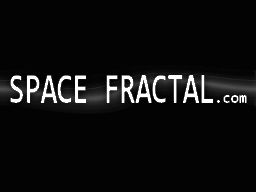
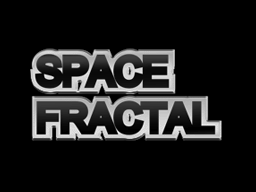
Nicer intro pictures

Changed region(s): [[0.0, 0.25, 1.0, 0.75]]

diff --git a/arm9/source/mmll.h b/arm9/source/mmll.h
@@ -130,6 +130,12 @@
 #define BG3_MAP_BASE				30
 #define BG3_MAP_BASE_SUB			30
 
+#define BG1_INTRO_TILE_BASE			4
+#define BG1_INTRO_TILE_BASE_SUB		4
+
+#define BG2_INTRO_TILE_BASE			0
+#define BG2_INTRO_TILE_BASE_SUB		0
+
 #define BG0_TILE_BASE				7
 #define BG0_TILE_BASE_SUB			7
 
